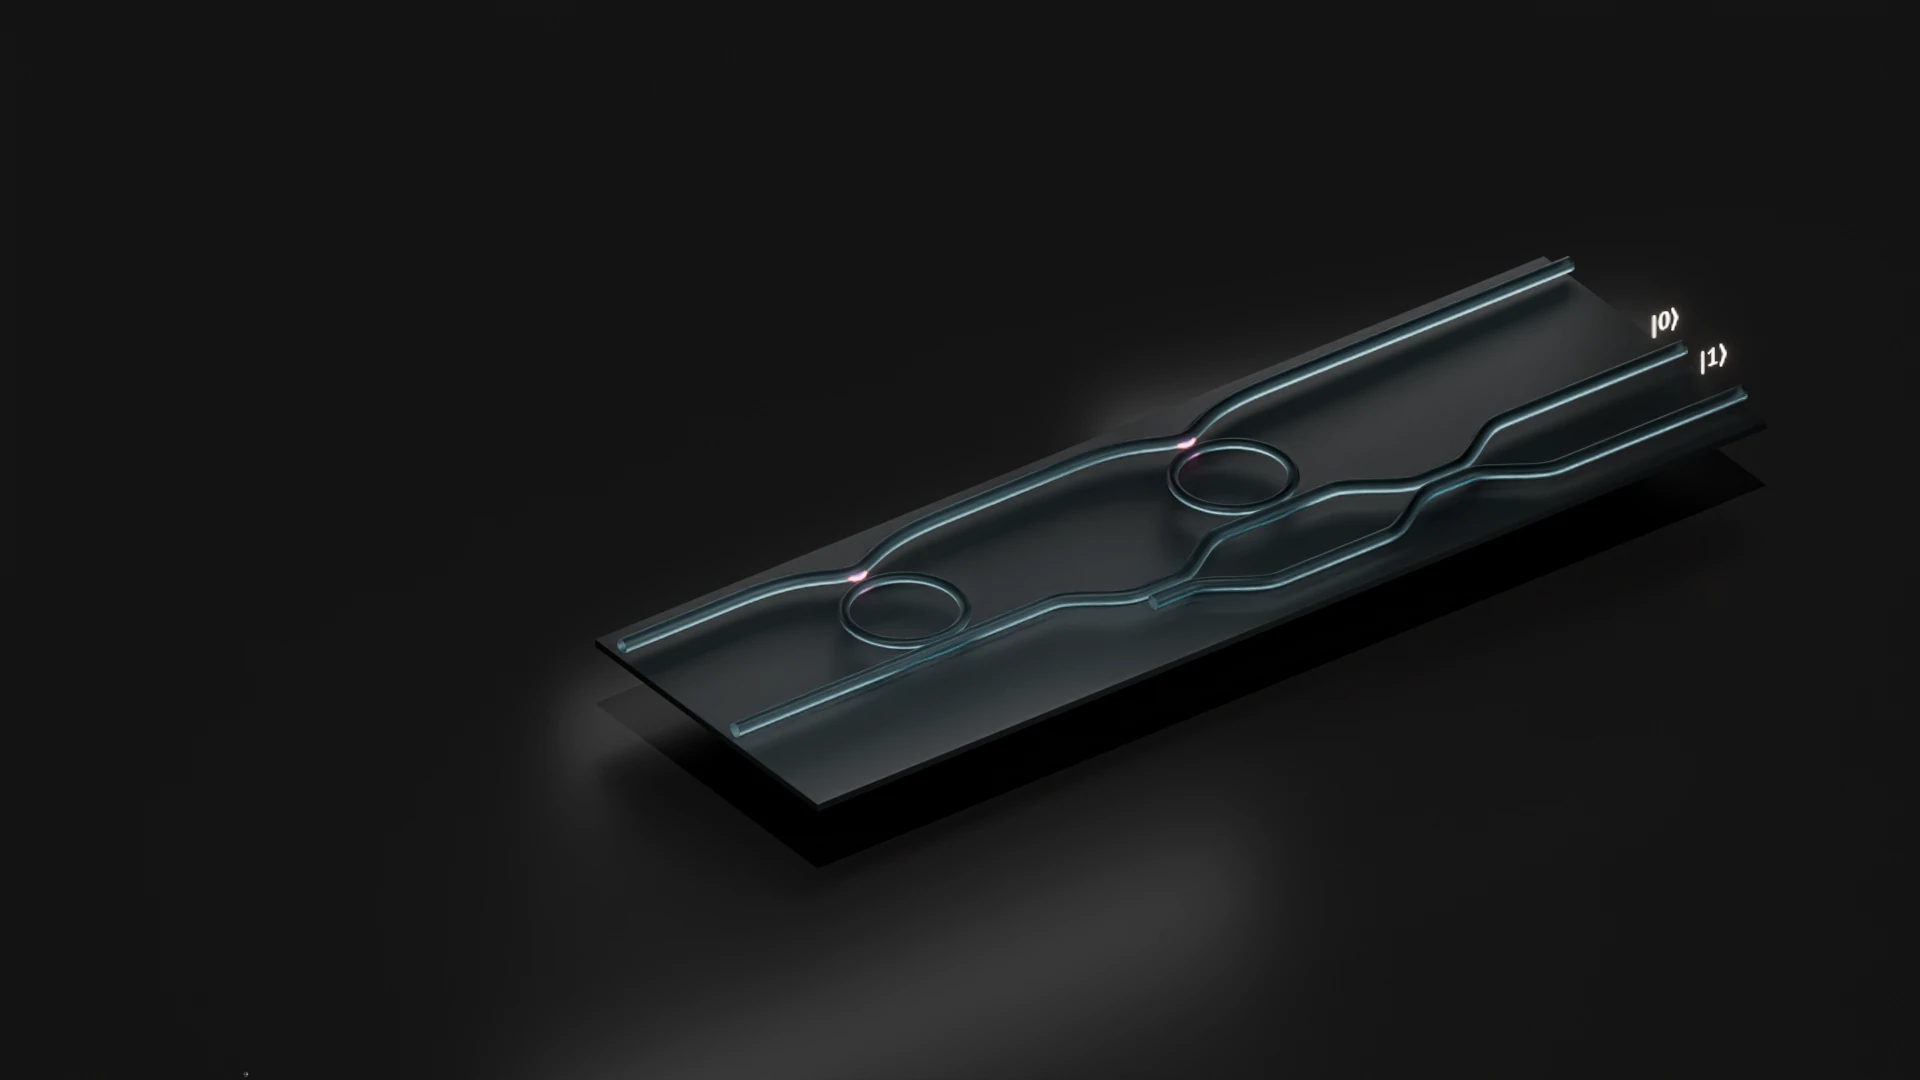
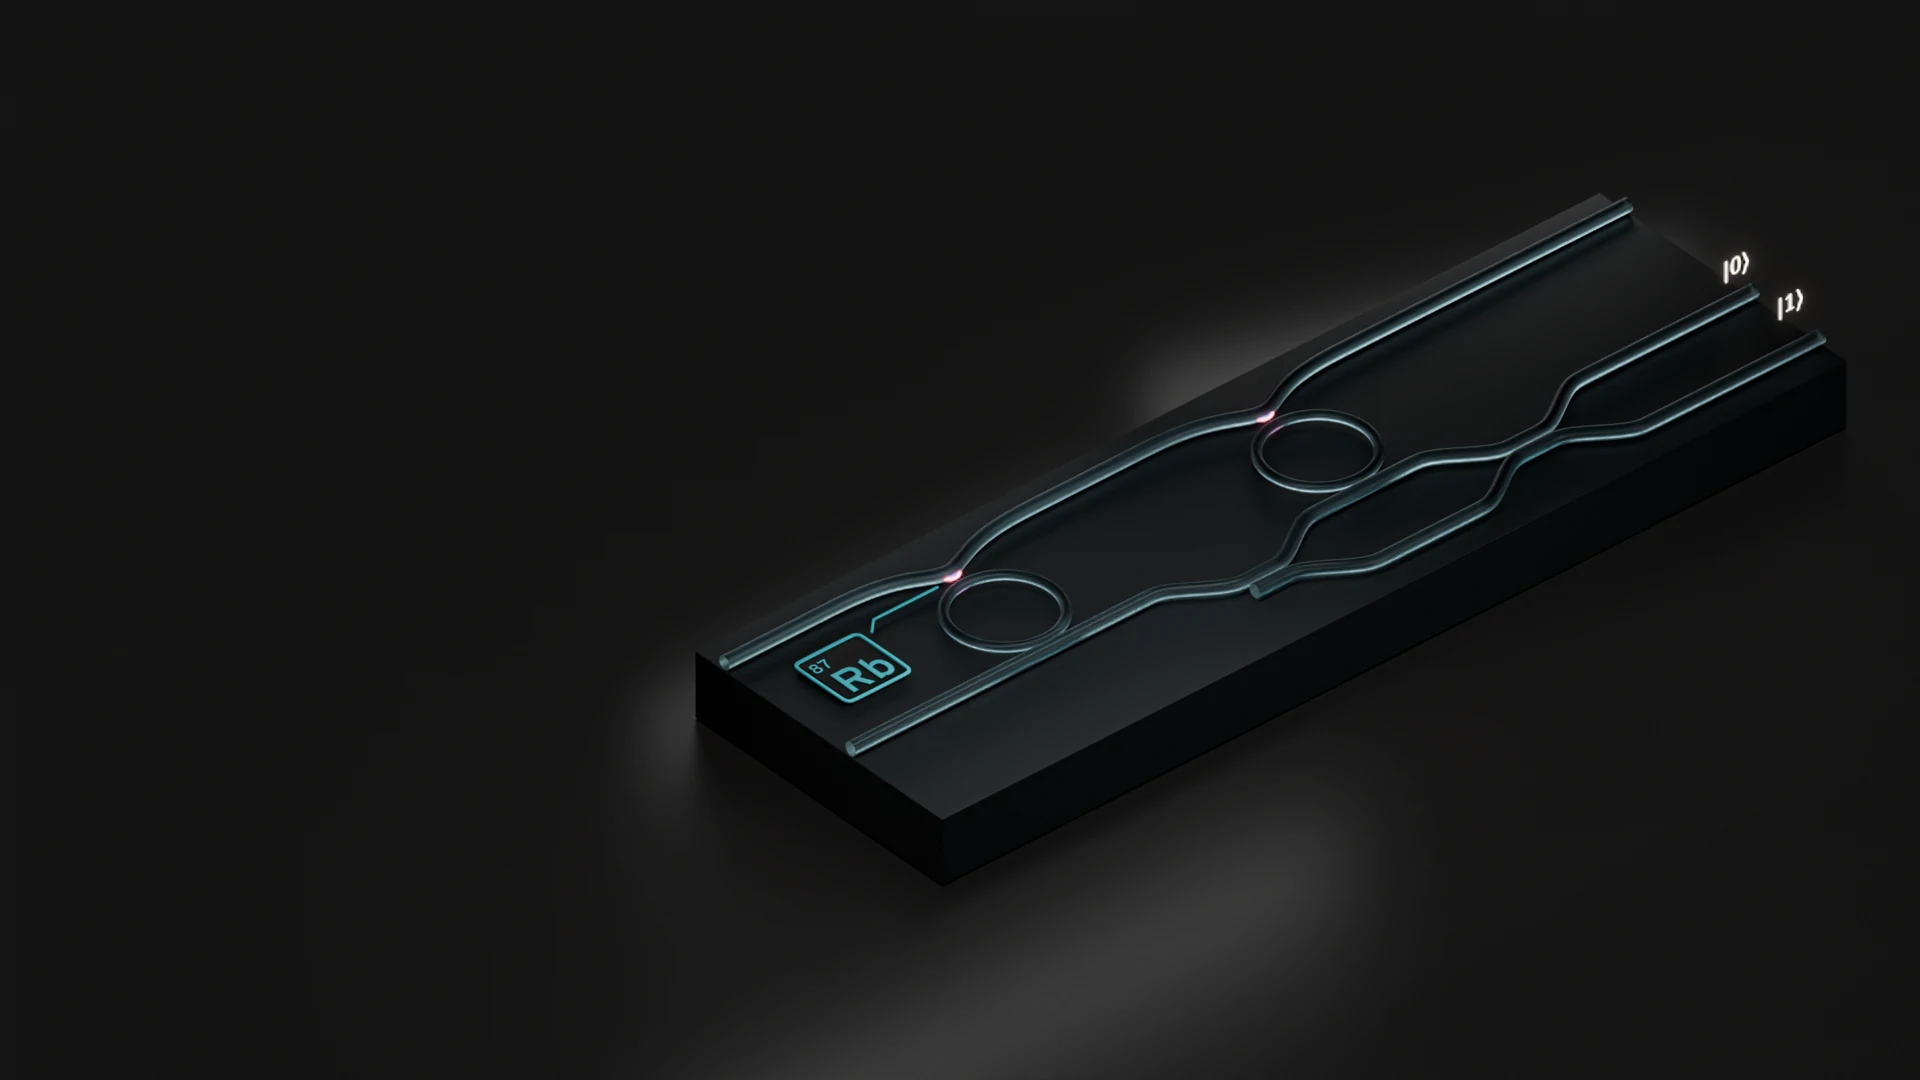
new Youtube link, state 4 fallback static image

Changed region(s): [[0.2812, 0.1833, 0.9375, 0.7639], [0.4688, 0.7944, 0.5312, 0.825]]

diff --git a/script.js b/script.js
@@ -46,7 +46,7 @@ const states = {
             "The result: a system designed to fit in a standard server room rather than on a factory floor the size of a few football fields. No cryogenic cooling. No specialized infrastructure. Room temperature operation with the reliability required for practical deployment."
         ],
         image: "assets/images/state2.webp",
-        videoUrl: "https://youtu.be/-pp3bKn8Fg8"
+        videoUrl: "https://youtu.be/tPIVIoGIzUE"
     },
     3: {
         title: "Photonics Chip at the Core",
@@ -64,6 +64,7 @@ const states = {
             "The atom acts as a quantum mediator—creating the nonlinear interactions that photons alone cannot achieve. The result is a stream of high-quality entangled photons cluster states, ready to be stitched into the large-scale array of quantum logic required for fault-tolerant quantum computing."
         ],
         loopingVideo: "assets/animations/Resonators.webm",
+        image: "assets/images/state4.webp", // Fallback image if video fails
         svg: "assets/vector_graphics/q-logic-gates.svg"
     }
 };
@@ -569,12 +570,35 @@ async function fadeTransition(targetState) {
         stateAnimation.muted = true;
         stateAnimation.classList.add('playing');
         
+        // Add error handler for video loading failure
+        stateAnimation.onerror = () => {
+            console.warn('Looping video failed to load, using fallback image');
+            // Fall back to static image if available
+            if (newState.image) {
+                stateAnimation.style.opacity = '0';
+                stateAnimation.classList.remove('playing');
+                stateAnimation.loop = false;
+                stateVisual.src = newState.image;
+                stateVisual.style.transition = `opacity ${fadeInDuration}ms ease-in`;
+                stateVisual.style.opacity = '1';
+            }
+        };
+        
         // Fade in video
         stateAnimation.style.transition = `opacity ${fadeInDuration}ms ease-in`;
         stateAnimation.style.opacity = '1';
         
         await stateAnimation.play().catch(err => {
             console.warn('Failed to play looping video:', err);
+            // Fall back to static image if video won't play
+            if (newState.image) {
+                stateAnimation.style.opacity = '0';
+                stateAnimation.classList.remove('playing');
+                stateAnimation.loop = false;
+                stateVisual.src = newState.image;
+                stateVisual.style.transition = `opacity ${fadeInDuration}ms ease-in`;
+                stateVisual.style.opacity = '1';
+            }
         });
     } else if (newState.image) {
         // Stop any looping video
@@ -714,7 +738,30 @@ function playTransitionAnimation(animationPath, targetState) {
                     stateAnimation.style.opacity = '1';
                     stateAnimation.classList.add('playing');
                     
-                    stateAnimation.play().catch(() => {});
+                    // Add error handler for video loading failure
+                    stateAnimation.onerror = () => {
+                        console.warn('Looping video failed to load, using fallback image');
+                        // Fall back to static image if available
+                        if (newState.image) {
+                            stateAnimation.style.opacity = '0';
+                            stateAnimation.classList.remove('playing');
+                            stateAnimation.loop = false;
+                            stateVisual.src = newState.image;
+                            stateVisual.style.opacity = '1';
+                        }
+                    };
+                    
+                    stateAnimation.play().catch((err) => {
+                        console.warn('Failed to play looping video, using fallback image:', err);
+                        // Fall back to static image if video won't play
+                        if (newState.image) {
+                            stateAnimation.style.opacity = '0';
+                            stateAnimation.classList.remove('playing');
+                            stateAnimation.loop = false;
+                            stateVisual.src = newState.image;
+                            stateVisual.style.opacity = '1';
+                        }
+                    });
                     
                     updateContent(targetState);
                     
